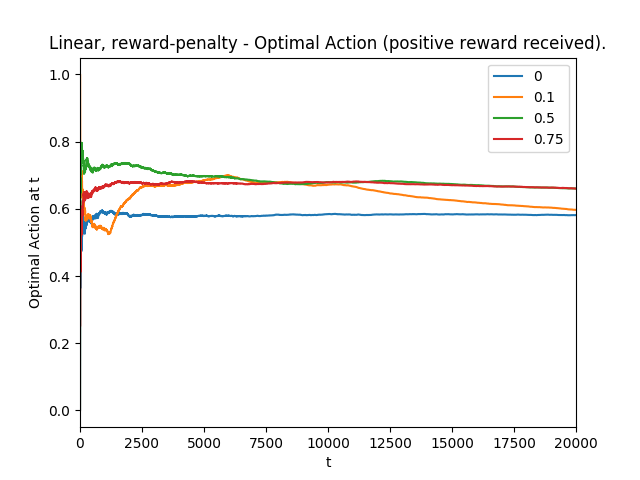
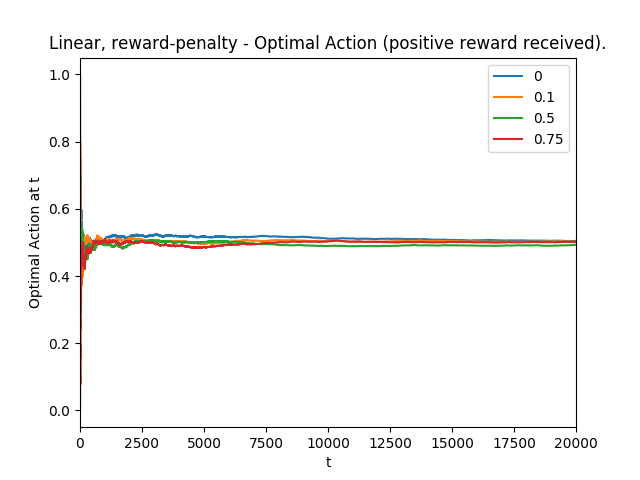
Adding a Binary Bandit - re-generate the charts - Update the policy enum - updating the bandit to include binary implementation - updating the environment to handle binary bandits

Changed region(s): [[0.125, 0.3125, 0.9062, 0.5938]]

diff --git a/RLBook/nArmedBandit/ModellingEnvironment.py b/RLBook/nArmedBandit/ModellingEnvironment.py
@@ -36,6 +36,7 @@ class ModelEnvironment:
     ALL_REWARDS = []
     POLICY_NAME = None
     POSITIVE_REWARDS = None
+    IS_BINARY = False
 
     def __init__(self, bandits, trials=None, policy=None, epsilons=None, temperatures=None, alpha=None):
         """
@@ -55,10 +56,13 @@ class ModelEnvironment:
             raise MissingPolicyException("Choose a Policy method!")
         else:
             self.POLICY_NAME = policy
-            self.policy_selection(policy=policy, epsilons=epsilons, temperatures=temperatures)
+            self.policy_selection(policy=policy, epsilons=epsilons, temperatures=temperatures,
+                                  alpha=alpha)
 
         # Initialise a multi-Armed Bandit
-        self.BANDIT = NArmBandit(num=bandits)
+        self.IS_BINARY = True if self.POLICY_NAME in PolicyEnum.BINARY_POLICIES else False
+        self.BANDIT = NArmBandit(num=bandits,
+                                 binary=self.IS_BINARY)
 
     def __repr__(self):
         return "< Modelling Environment Class >"
@@ -121,6 +125,10 @@ class ModelEnvironment:
         """
         import matplotlib.pyplot as plt
 
+        if len(self.POSITIVE_REWARDS.shape) == 3:
+            shape = self.POSITIVE_REWARDS.shape
+            self.POSITIVE_REWARDS = self.POSITIVE_REWARDS.reshape((shape[0], shape[1]))
+
         cum_vals = np.cumsum(self.POSITIVE_REWARDS * 1, axis=0)
         rng = np.arange(start=1, stop=cum_vals.shape[0] + 1)
         optimal_results = pd.DataFrame(data=cum_vals / np.tile(rng, (len(self.POLICY.show_settings(p=False)), 1)).T,
@@ -134,21 +142,22 @@ class ModelEnvironment:
         plt.ylabel("Optimal Action at t")
         plt.savefig("Plots/{}_Optimal_Action.png".format(self.POLICY_NAME))
 
-        # Average Reward
-        average_reward = pd.DataFrame(data=np.array(self.ALL_REWARDS),
-                                      columns=[str(x) for x in self.POLICY.show_settings(p=False)])
-        cols = average_reward.columns
-        average_reward["t"] = average_reward.index + 1
-        for each_column in cols:
-            average_reward.loc[:, each_column] = average_reward.loc[:, each_column].cumsum() / average_reward.loc[:,
-                                                                                               "t"]
+        if not self.IS_BINARY:
+            # Average Reward
+            average_reward = pd.DataFrame(data=np.array(self.ALL_REWARDS),
+                                          columns=[str(x) for x in self.POLICY.show_settings(p=False)])
+            cols = average_reward.columns
+            average_reward["t"] = average_reward.index + 1
+            for each_column in cols:
+                average_reward.loc[:, each_column] = average_reward.loc[:, each_column].cumsum() / average_reward.loc[:,
+                                                                                                   "t"]
 
-        plt.figure()
-        average_reward.plot(x='t')
-        plt.ylim((0, 10))
-        plt.title("{} - Average Reward (positive reward received).".format(self.POLICY_NAME))
-        plt.ylabel("Average Reward at t")
-        plt.savefig("Plots/{}_Average_Reward.png".format(self.POLICY_NAME))
+            plt.figure()
+            average_reward.plot(x='t')
+            plt.ylim((0, 10))
+            plt.title("{} - Average Reward (positive reward received).".format(self.POLICY_NAME))
+            plt.ylabel("Average Reward at t")
+            plt.savefig("Plots/{}_Average_Reward.png".format(self.POLICY_NAME))
 
     def save(self):
         """ TODO

diff --git a/RLBook/nArmedBandit/Bandits.py b/RLBook/nArmedBandit/Bandits.py
@@ -35,12 +35,24 @@ class NArmBandit:
     """ A collection of N slot machines. Slot machine i has a mean of i and sigma of N
     """
 
-    def __init__(self, num):
+    def __init__(self, num, binary=False):
+        """ Initialise a num-Armed Bandit
+
+            :param num:         Number of Bandits to create
+            :param binary:      Should they be Binary Bandits?
+                                Default=False
+
+        """
         self.num = num
         self.bandits = dict()
 
         for bandit_n in range(num):
-            self.bandits[bandit_n] = OneArmBandit(mu=bandit_n, sigma=num)
+            if binary:
+                # Binary Bandit
+                self.bandits[bandit_n] = OneArmBinaryBandit()
+            else:
+                # Gaussian Normal Bandit
+                self.bandits[bandit_n] = OneArmBandit(mu=bandit_n, sigma=num)
 
     def __str__(self):
         return "< {}-Arm Bandits >".format(self.num)
@@ -64,3 +76,18 @@ class NArmBandit:
 
         """
         return self.bandits[index].draw()
+
+
+class OneArmBinaryBandit:
+
+    def __init__(self):
+        pass
+
+    def __str__(self):
+        return "< One Arm Binary Bandit >"
+
+    def __repr__(self):
+        return "< One Arm Binary Bandit >"
+
+    def draw(self):
+        return np.random.choice([0, 1], size=1)

diff --git a/RLBook/nArmedBandit/LinearRewardInaction.py b/RLBook/nArmedBandit/LinearRewardInaction.py
@@ -139,7 +139,7 @@ class LinearInaction:
         """
         if reward > 0:
             current = self.ACTION_REWARDS[action, index]
-            self.ACTION_REWARDS[action, index] += current + self.ALPHA * (reward - current)
+            self.ACTION_REWARDS[action, index] += current + self.ALPHA * (1 - current)
 
     def update_rewards(self, rewards):
         """ Update all the Temperature Reward values

diff --git a/RLBook/nArmedBandit/LinearRewardPenalty.py b/RLBook/nArmedBandit/LinearRewardPenalty.py
@@ -140,7 +140,7 @@ class LinearPenalty:
 
         """
         current = self.ACTION_REWARDS[action, index]
-        self.ACTION_REWARDS[action, index] += current + self.ALPHA * (reward - current)
+        self.ACTION_REWARDS[action, index] += current + self.ALPHA * (1 - current)
 
     def update_rewards(self, rewards):
         """ Update all the Temperature Reward values

diff --git a/RLBook/nArmedBandit/Extras.py b/RLBook/nArmedBandit/Extras.py
@@ -25,6 +25,7 @@ class PolicyEnum:
     SOFTMAX = "Softmax"
     LINEAR_REWARD_PENALTY = "Linear, reward-penalty"
     LINEAR_REWARD_INACTION = "Linear, reward-inaction"
+    BINARY_POLICIES = [LINEAR_REWARD_INACTION, LINEAR_REWARD_PENALTY]
 
     def __repr__(self):
         return "< Policy Enum >"
